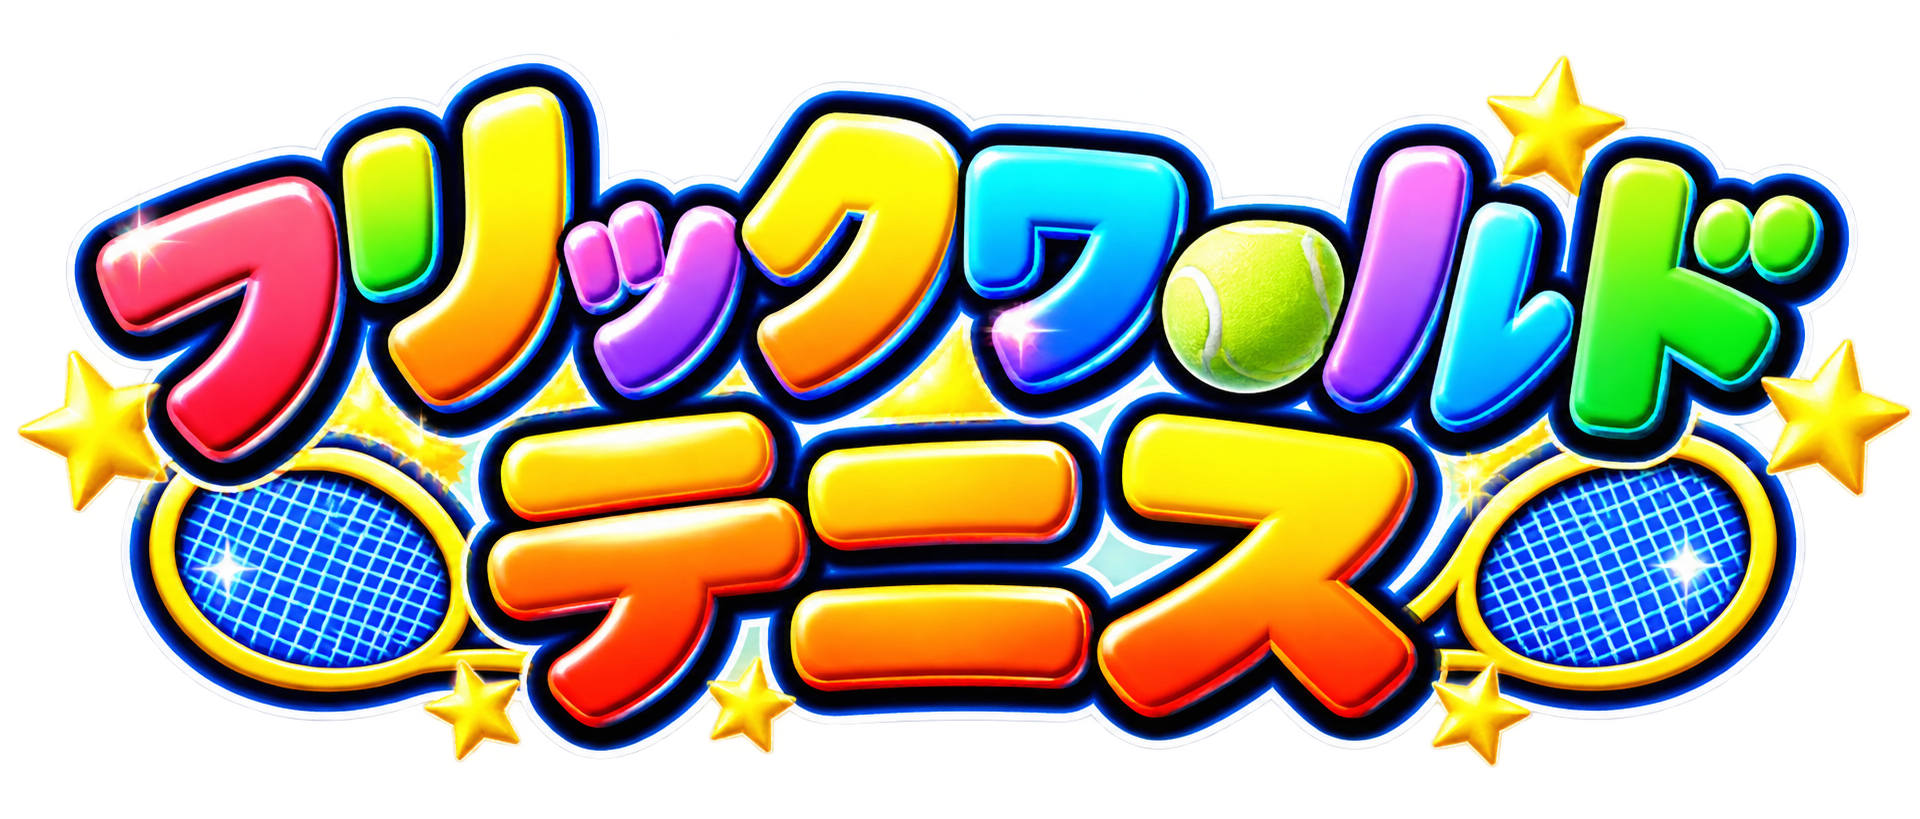
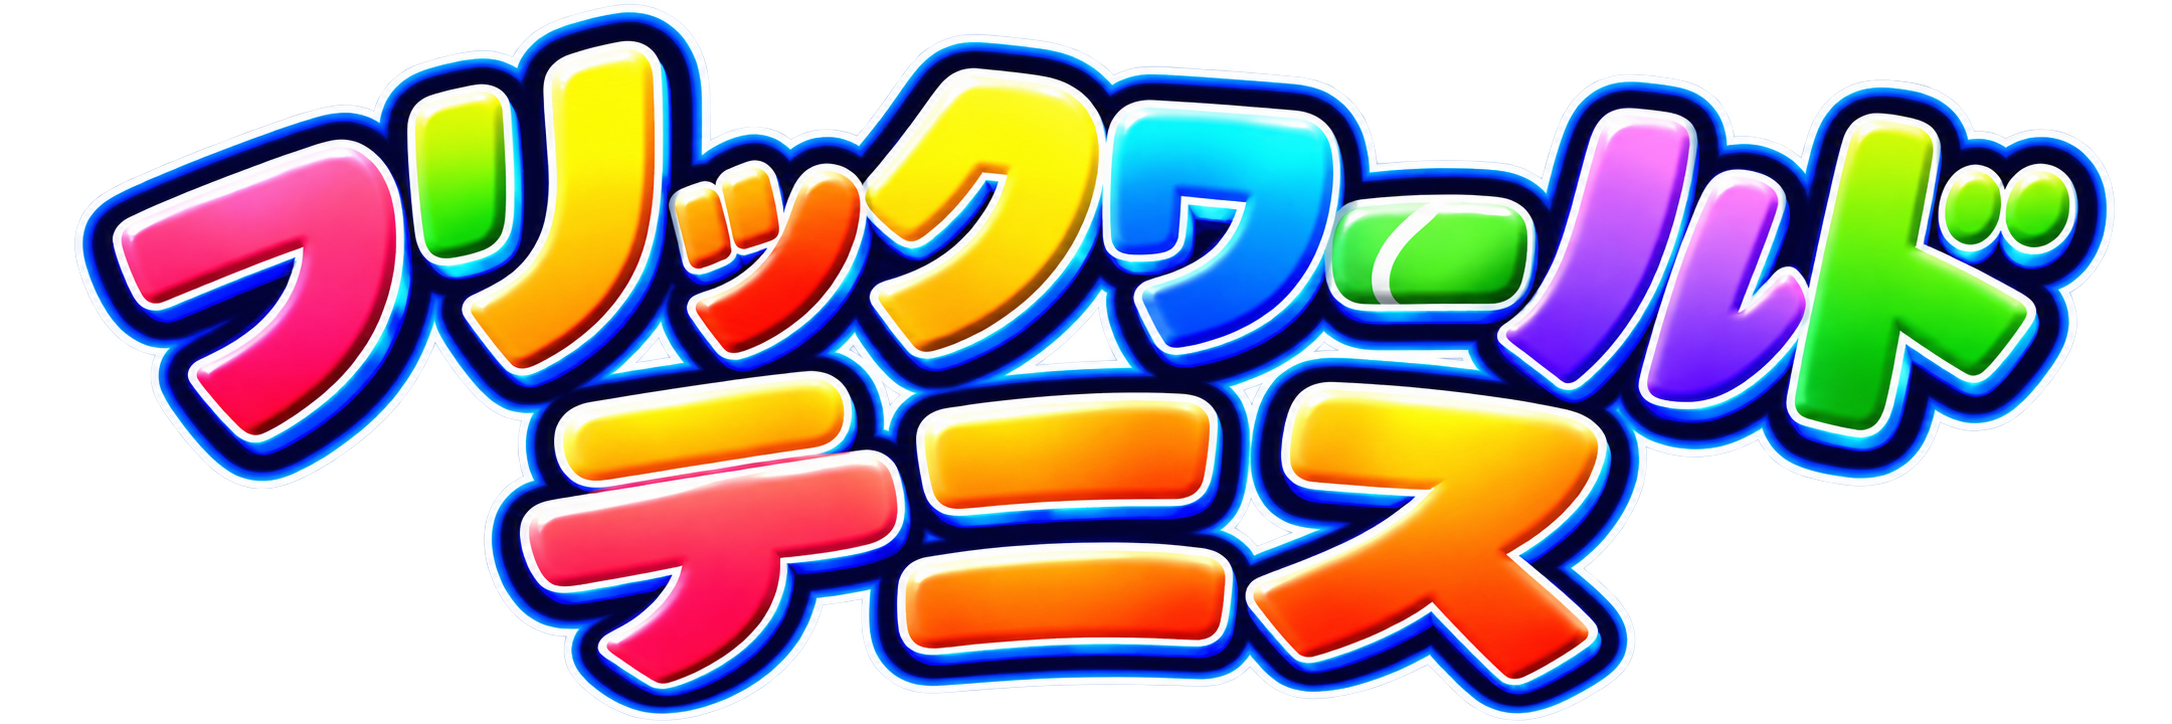
フリックワールドテニス: 題名の絵を 2枚目に 差しかえ
Claude-Session: https://claude.ai/code/session_01PULejRCTevEkxURJ8vfN2Z

diff --git a/tennis/index.html b/tennis/index.html
@@ -445,11 +445,11 @@ ruby.nm rt{font-size:10px;font-weight:500;color:var(--muted);letter-spacing:.02e
          読みあげソフトには かくして、下の <h1> が 名前を言う -->
     <div class="logo">
       <img class="logo-mark" src="logo-mark2.webp?v=2" alt="" width="144" height="144" aria-hidden="true">
-      <img class="logo-word" src="logo-word.webp?v=3" alt="" width="900" height="340" aria-hidden="true">
+      <img class="logo-word" src="logo-word.webp?v=4" alt="" width="900" height="318" aria-hidden="true">
       <button class="prof-btn" id="prof-btn" aria-label="マイページ"><span class="nm"></span><span class="tile sm sk-card" id="prof-tile">?</span></button>
     </div>
     <h1 class="sr-only">フリックワールドテニス</h1>
-    <img class="hero" src="hero.webp?v=3" alt="フリックワールドテニス" width="1536" height="1024">
+    <img class="hero" src="hero.webp?v=4" alt="フリックワールドテニス" width="1536" height="1024">
     <p class="lead" id="lead">世界と日本の名所・地名・首都を、ひらがなでどれだけ速く打てるか。10問のトータルタイムで勝負しながら、旅に出よう。</p>
     <!-- 答えの ひらがな あり / 無し(けいくん 2026-10-24「フリック漢字以外のすべてのフリックゲームも ひらがな無しの選択が出来るようにしてください」)。
          ぜんぶの ゲームで 同じ 1つの きまり(localStorage の flick-kana)。無し = 打つ 字が ？ に なる(まちがえた 1字だけ 見える)。自己ベストは あり / 無し で 別 -->

diff --git a/tools/build_games.py b/tools/build_games.py
@@ -472,7 +472,7 @@ GAMES = {
     #   ⚠⚠ いまの ランキング・賞金・勝率・ケガ・ドーピング・賭け・商品名は 書かない(決まりは tools/tennis/PROMPT.md)。ルールは ITF / ATP / WTA / JTA の 2026年(毎年 12月に 見なおす)。
     #   絵: けいくんの ChatGPT の 絵が 届くまで 仮の アイコン(tools/tennis/placeholder_icon.py)。届いたら tools/tennis/art/square-src.png → tools/icon_from_square.py tennis(iconv を +1)/ title-src.png → tools/title_from_art.py tennis(logo を True)/ tennis/hero.webp(hero を True)
     "tennis": dict(name="フリックワールドテニス", modes="TENNIS", kinds=set(), color="#2b8a3e", hero=True, logo=True,
-                  art=dict(word=(900, 340), hero=(1536, 1024), alt="フリックワールドテニス", iconv=2, wordv=3),
+                  art=dict(word=(900, 318), hero=(1536, 1024), alt="フリックワールドテニス", iconv=2, wordv=4),
                   lead="テニスの きほん・ルール・ツアーと 大会・4大大会と 歴史・いまの スター選手・伝説の 選手・技と テクニック・戦術と 解説の ことば・国別対抗と オリンピックの ことばを、ひらがなで フリック入力。打つと その ことばの 意味と、どの 国の 話か・ハード / クレー / グラスの どの コートの 話か・学ぶ 分野・しくみ図の どこに あるのかが 出るよ。テニスが すきな 小学生の ことばから はじめて、テニススクールや 部活の コーチ、解説者が 使う 戦術の ことばまで。0点を「ラブ」と よぶ、4大大会は 1つずつ コートの 面が ちがう、などの 「へえ」も たくさん。4択クイズで 意味を たしかめる 練習も できるよ。",
                   how="表示された ひらがなを、そのまま打ち写してね。1回は かならず 10問。どのステージも いつも同じ10問なので、タイムをくらべられるよ。これは ことばを おぼえる ゲームだよ。選手の ランキングや 記録は 変わる ことが あるよ。ルールは ITF・ATP・WTA・JTA の いまの 版で 確かめたよ(変わる ことが あるよ)。",
                   rule="ルール：予測変換は使わずに、自分の指で打ち切ろう。あそぶほど、世界の テニスが つながって 見えてくるよ。ITF・ATP・WTA・JTA・各大会・各選手とは 関係ありません。"),

diff --git a/CLAUDE.md b/CLAUDE.md
@@ -1282,7 +1282,7 @@
 - 書いた 助手(3人。2つの 旅ずつ)とは **別の 助手(3人)が 1語ずつ 確かめた**(直し 約40)
 - **トップの 絵は 入れた**(2026-10-25。`tennis/hero.webp` 1536×1024・`hero=True`・`wordv` = 2)。けいくんの ChatGPT の 絵の **2回目**。1回目は 本物の ロゴ(ATP/WTA・4大大会・デビスカップ・BJKカップ・五輪の 輪)・サバレンカに ベラルーシの 国旗・セリーナが 伝説の 箱・ゲームに 無い 札 10こ で 入れなかった。2回目は ロゴ・国旗が 消え、札は 9つの 箱 × 4こ ぜんぶ ゲームの 読み。のこった 字の まちがいを **絵の 中で 直した**(`tools/tennis/fix_text.py`): ぽ・ぴ・ぷ・ぱ の ゛゜(らんきんぐぽいんと・ていらーふりっつ・ぴーとさんぷらす・とっぷすぴん×2・すぴんさーぶ×2・まっちぽいんと・ぱらりんぴっく・にほんだいひょう)・ぜんごう / ぜんふつおーぷん の くずれ / 4択の 問い(答えの「さーぶ」が 選択肢に 無かった → トップスピンの 問いに)/ サービスエースの 説明の「とても つよい さーぶ」(エースは 強さでは ない → さーぶ だけで とれる てん)/ レベル2・3の ことぼ・せんじゅく。もとの 絵は 入れものに 入れていない
 - **アイコンは 入れた**(2026-10-25。けいくんの 四角い 絵 1254px を 切らずに そのまま `tools/tennis/art/square-src.png` → `python3 tools/icon_from_square.py tennis`。`iconv` = 2)。題名の「ワールド」の ー が テニスボールに なっている。小さい 字の ゛゜の まちがい(すぴん・ぼいんと など)は アイコンの 大きさでは 読めないので そのまま。仮の アイコンの 台本 `placeholder_icon.py` は もう 使わない
-- **題名も 入れた**(2026-10-25。けいくんの ChatGPT の 切りぬき `tools/tennis/art/title-src.png` 1920×819 → `python3 tools/title_from_art.py tennis` → `tennis/logo-word.webp` 900×340。`logo=True`・`wordv` = 3)。2行の「フリックワールド / テニス」(ー は テニスボール)を 読んで 確かめた
+- **題名も 入れた**(2026-10-25。けいくんの ChatGPT の 切りぬき。同じ日に 2枚目 `tools/tennis/art/title-src.png` 2172×724 に 差しかえ → `python3 tools/title_from_art.py tennis` → `tennis/logo-word.webp` 900×318。`logo=True`・`wordv` = 4)。2行の「フリックワールド / テニス」(ー は テニスボール)を 読んで 確かめた
   ⚠ 絵を 頼む ときは 実在の 選手の 顔・大会や ブランドの ロゴを 描かせない。人物は 下 3分の1に 小さく。「テ二ス」「ワールドテニ」に なりやすいので 字を かならず 読む
 - 写真・Wikipedia の リンクは まだ 取っていない
 - かずともの `FLICK_MODES` / `FLICK_LINK_TARGETS`・販売ページ `HOME_GAMES`(スポーツの 章、バレーボールの となり。絵なし = 名前の 字)・規約の 一覧 `FLICK_SERIES_GAMES` に 足した(speed-king)
